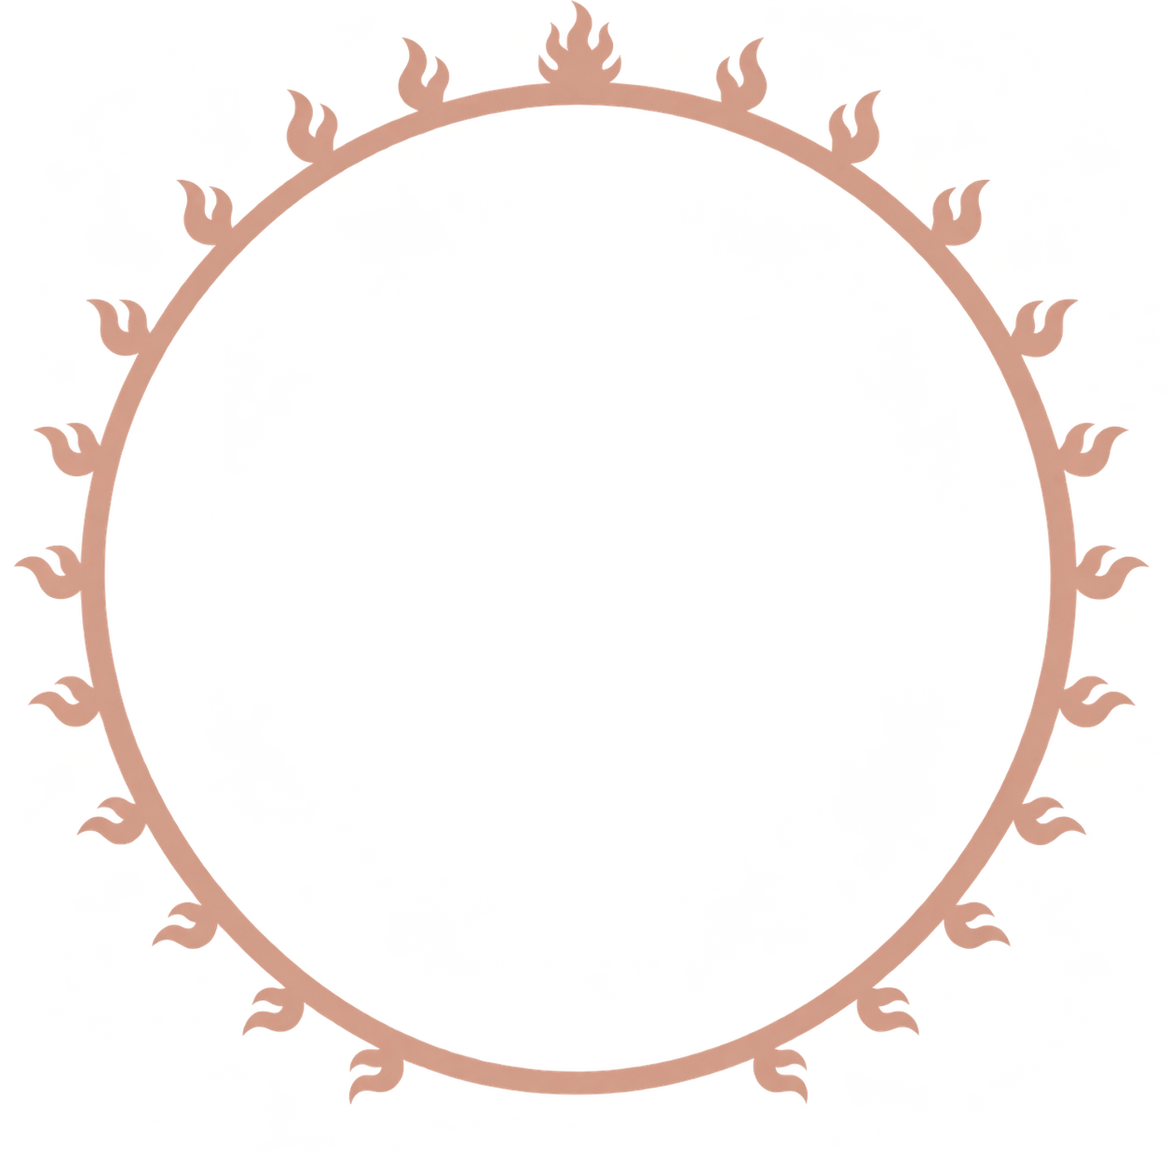
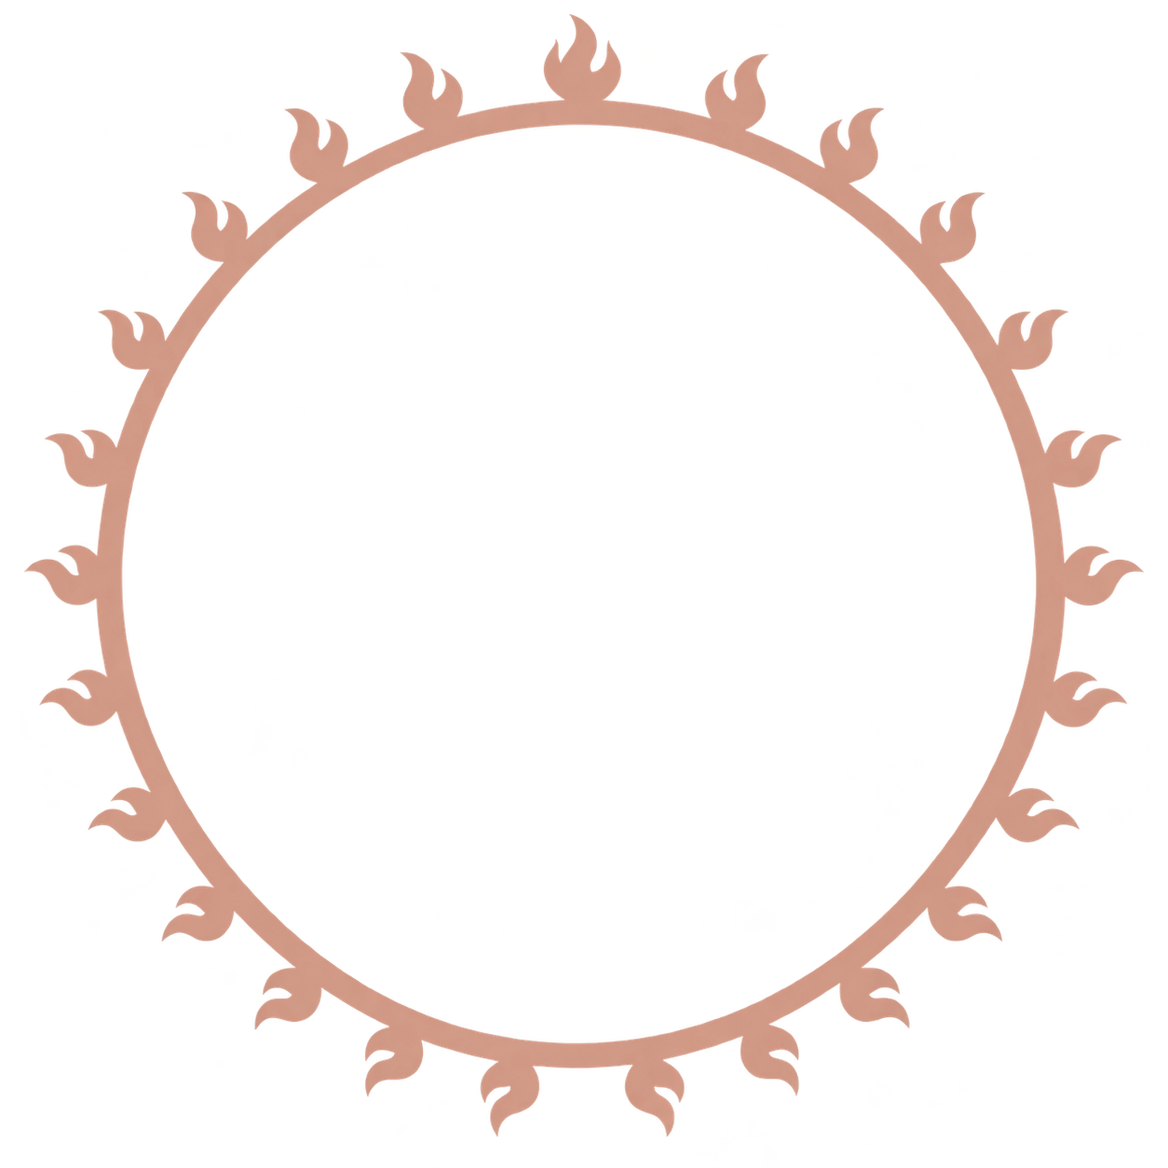
Animate Collection 02 frame selection and update the dance portfolio

Changed region(s): [[0.0, 0.0, 0.9952, 0.9641]]

diff --git a/Deliverables/exports/Jayshree-Jewa-Portfolio/refinement.css b/Deliverables/exports/Jayshree-Jewa-Portfolio/refinement.css
@@ -267,9 +267,128 @@ nav{gap:18px;font-size:10px}.nav-inquire{padding:8px 10px}.nav-inquire span{marg
 /* Flame-ring backdrop, extracted from the supplied Nataraja reference. */
 .cinematic-hero .hero-scene::before{
   width:100%;top:0;left:3%;border:0;border-radius:0;box-shadow:none;
-  background:url('assets/flame-ring.png') center / contain no-repeat;opacity:.24;
+  background:url('assets/flame-ring.png?v=complete-25') center / contain no-repeat;opacity:.24;
 }
 
 /* True transparent portrait: preserve clothing without silhouette clipping or blending. */
 .cinematic-hero .hero-art,.cinematic-hero .hero-scene{mix-blend-mode:normal;}
 .cinematic-hero .arch>img{clip-path:none;mix-blend-mode:normal;filter:none;object-fit:contain;}
+
+/* Slow ceremonial ring rotation and drifting ambient light. */
+.cinematic-hero .hero-scene::before{transform-origin:50% 50%;animation:flame-ring-orbit 100s linear infinite;}
+.cinematic-hero::after{content:'';position:absolute;inset:-15%;z-index:-1;pointer-events:none;background:radial-gradient(ellipse at 25% 35%,rgb(119 38 57 / 24%),transparent 42%),radial-gradient(ellipse at 75% 65%,rgb(224 180 164 / 9%),transparent 38%);animation:hero-light-drift 18s ease-in-out infinite alternate;}
+@keyframes flame-ring-orbit{from{transform:rotate(0deg)}to{transform:rotate(360deg)}}
+@keyframes hero-light-drift{from{transform:translate(-3%,-2%) scale(1);opacity:.55}to{transform:translate(4%,3%) scale(1.08);opacity:1}}
+.motion-paused .cinematic-hero::after,.motion-paused .cinematic-hero .hero-scene::before{animation-play-state:paused;}
+@media(prefers-reduced-motion:reduce){.cinematic-hero::after,.cinematic-hero .hero-scene::before{animation:none;}}
+
+/* Align the dancer's upper body with the centre of the flame halo. */
+.cinematic-hero .hero-art{margin-left:0;}
+
+.curved-collection .set-collage>.gallery-card .photo-wrap img[src^="assets/peacock-reverie.png"]{object-fit:contain;object-position:center;transform:none;scale:1;}
+
+/* A soft entrance for clicked photographs; no image scaling or cropping. */
+.lightbox.collection-viewer[open]{animation:photo-viewer-enter .42s cubic-bezier(.22,1,.36,1) both;}
+.lightbox.collection-viewer[open]::backdrop{animation:photo-backdrop-enter .35s ease both;}
+@keyframes photo-viewer-enter{from{opacity:0;transform:translateY(18px)}to{opacity:1;transform:translateY(0)}}
+@keyframes photo-backdrop-enter{from{opacity:0}to{opacity:1}}
+.motion-paused .lightbox.collection-viewer[open],.motion-paused .lightbox.collection-viewer[open]::backdrop{animation:none;}
+@media(prefers-reduced-motion:reduce){.lightbox.collection-viewer[open],.lightbox.collection-viewer[open]::backdrop{animation:none;}}
+
+/* A gentle spring entrance for the photo window. */
+.lightbox.collection-viewer[open]{animation:photo-popup .55s cubic-bezier(.22,1,.36,1) both;transform-origin:center;box-shadow:0 24px 90px #0009,0 0 32px rgb(224 180 164 / 12%);}
+@keyframes photo-popup{0%{opacity:0;transform:translateY(32px) scale(.96)}70%{opacity:1;transform:translateY(-5px) scale(1)}100%{opacity:1;transform:translateY(0) scale(1)}}
+.motion-paused .lightbox.collection-viewer[open]{animation:none;}
+@media(prefers-reduced-motion:reduce){.lightbox.collection-viewer[open]{animation:none;}}
+
+/* Shared ambient background across the gallery, art and contact sections. */
+body{isolation:isolate;}
+.site-atmosphere{position:fixed;inset:0;z-index:-1;overflow:hidden;pointer-events:none;background:var(--background);}
+.site-atmosphere::before{content:'';position:absolute;inset:-25%;background:radial-gradient(ellipse at 25% 35%,rgb(111 27 48 / 33%),transparent 46%),radial-gradient(ellipse at 75% 70%,rgb(224 180 164 / 9%),transparent 38%);animation:site-glow-drift 26s ease-in-out infinite alternate;}
+.site-atmosphere i{position:absolute;left:var(--x);top:var(--y);width:var(--size);height:var(--size);border-radius:50%;background:#e0b4a4;opacity:.22;box-shadow:0 0 7px #e0b4a433;animation:site-particle-drift var(--duration) ease-in-out var(--delay) infinite alternate;}
+.collection,.dance-aspects,.philosophy.shiva-reflection,footer{background:transparent;}
+@keyframes site-glow-drift{from{transform:translate(-4%,-3%) scale(1);opacity:.65}to{transform:translate(5%,4%) scale(1.12);opacity:1}}
+@keyframes site-particle-drift{0%{transform:translate3d(0,24px,0);opacity:.12}50%{opacity:.38}100%{transform:translate3d(22px,-65px,0);opacity:.18}}
+.motion-paused .site-atmosphere::before,.motion-paused .site-atmosphere i{animation-play-state:paused;}
+@media(max-width:600px){.site-atmosphere i:nth-child(n+15){display:none;}}
+@media(prefers-reduced-motion:reduce){.site-atmosphere::before,.site-atmosphere i{animation:none;}.site-atmosphere i{opacity:.16;}}
+
+/* Quiet, continuous atmosphere across the site. */
+.ambient-section{position:relative;isolation:isolate;}
+.site-atmosphere{position:absolute;inset:0;z-index:-1;overflow:hidden;pointer-events:none;border-radius:inherit;contain:paint;}
+.site-atmosphere::before{content:'';position:absolute;inset:-15%;background:radial-gradient(ellipse at 12% 28%,rgb(143 55 73 / 16%),transparent 48%),radial-gradient(ellipse at 86% 75%,rgb(224 180 164 / 10%),transparent 44%);animation:site-light-flow 24s ease-in-out infinite alternate;}
+.site-atmosphere::after{content:'';position:absolute;inset:-90px -30px;background-image:radial-gradient(circle at 30px 40px,#e0b4a45c 1px,transparent 2px),radial-gradient(circle at 160px 120px,#e0b4a438 1px,transparent 2px),radial-gradient(circle at 80px 190px,#e0b4a42b 1px,transparent 2px);background-size:330px 290px,470px 390px,610px 430px;animation:site-dust-drift 32s ease-in-out infinite alternate;opacity:.5;}
+.dance-aspects .site-atmosphere::before,.philosophy .site-atmosphere::before{animation-delay:-12s;}
+.collection .site-atmosphere::after,footer .site-atmosphere::after{animation-delay:-16s;}
+@keyframes site-light-flow{from{transform:translate(-3%,-2%) scale(1);opacity:.55}to{transform:translate(4%,3%) scale(1.08);opacity:1}}
+@keyframes site-dust-drift{from{transform:translate(0,35px);opacity:.3}to{transform:translate(20px,-35px);opacity:.65}}
+.motion-paused .site-atmosphere::before,.motion-paused .site-atmosphere::after{animation-play-state:paused;}
+@media(prefers-reduced-motion:reduce){.site-atmosphere::before,.site-atmosphere::after{animation:none;}}
+@media(max-width:600px){.site-atmosphere::after{opacity:.35;background-size:400px 350px,550px 430px,700px 500px;}}
+
+/* Lift the entire frame, including its caption, independently of carousel rotation. */
+.curved-collection .set-collage{height:540px;}
+.curved-collection .set-collage>.gallery-card:nth-child(n){top:75px;overflow:visible;translate:0 0;scale:1;transition:transform 1s cubic-bezier(.22,1,.36,1),opacity .7s,translate .45s cubic-bezier(.2,.8,.25,1.15),scale .45s cubic-bezier(.2,.8,.25,1.15);}
+.curved-collection .set-collage>.gallery-card .photo-wrap{transform:none;transition:box-shadow .35s,border-color .35s;border:1px solid var(--border);}
+@media(hover:hover) and (pointer:fine){
+.curved-collection .set-collage>.gallery-card:hover{translate:0 -26px;scale:1.09;z-index:20!important;}
+.curved-collection .set-collage>.gallery-card:hover .photo-wrap{transform:none;border-color:var(--accent);box-shadow:0 26px 40px #000a,0 0 0 2px rgb(224 180 164 / 40%),0 0 30px rgb(224 180 164 / 28%);}
+}
+.curved-collection .set-collage>.gallery-card:focus-visible{translate:0 -26px;scale:1.09;z-index:20!important;outline:none;}
+.curved-collection .set-collage>.gallery-card:focus-visible .photo-wrap{border-color:var(--accent);box-shadow:0 26px 40px #000a,0 0 0 3px var(--accent);}
+.curved-collection .set-collage>.gallery-card:active{translate:0 -10px;scale:1.03;}
+@media(max-width:700px){.curved-collection .set-collage{height:450px;}.curved-collection .set-collage>.gallery-card:nth-child(n){top:65px;}}
+.lightbox.collection-viewer[open]{animation:photo-popup .65s cubic-bezier(.22,1,.36,1) both;}
+@keyframes photo-popup{0%{opacity:0;transform:translateY(55px) scale(.84)}65%{opacity:1;transform:translateY(-8px) scale(1.015)}100%{opacity:1;transform:translateY(0) scale(1)}}
+.motion-paused .curved-collection .set-collage>.gallery-card:nth-child(n){translate:none;scale:1;transition:none;}
+.motion-paused .lightbox.collection-viewer[open]{animation:none;}
+@media(prefers-reduced-motion:reduce){.curved-collection .set-collage>.gallery-card:nth-child(n){translate:none;scale:1;transition:none;}.lightbox.collection-viewer[open]{animation:none;}}
+
+/* Continuous movement in each section, with readable stationary text after arrival. */
+.motion-zone>.site-atmosphere{background:transparent;}
+.section-light-ribbon{position:absolute;left:-35%;top:15%;width:110%;height:65%;border-radius:50%;border:1px solid rgb(224 180 164 / 16%);background:radial-gradient(ellipse,transparent 45%,rgb(174 62 86 / 12%) 65%,transparent 72%);animation:section-ribbon-flow 14s ease-in-out var(--flow-delay,0s) infinite alternate;}
+.motion-zone>.site-atmosphere::before{animation-duration:14s;}
+.motion-zone>.site-atmosphere::after{animation-duration:18s;}
+@keyframes section-ribbon-flow{from{transform:translate(-8%,-7%) rotate(-18deg);opacity:.35}to{transform:translate(36%,20%) rotate(20deg);opacity:.9}}
+.section-entrance{opacity:.2;transform:translateY(26px);transition:opacity .9s ease,transform .9s cubic-bezier(.22,1,.36,1);}
+.section-entrance.section-arrived{opacity:1;transform:none;}
+.dance-aspects .hero-frame.section-float,.set-black .set-collage>.gallery-card.section-float:nth-child(n),.shiva-artwork.section-float{animation:section-photo-float 6s ease-in-out var(--float-delay,0s) infinite;}
+@keyframes section-photo-float{0%,100%{translate:0 6px}50%{translate:0 -8px}}
+.dance-aspects .hero-frame.section-float:is(:hover,:focus-visible),.set-black .gallery-card.section-float:hover{animation-play-state:paused;}
+.section-float:not(.motion-in-view),.motion-zone:not(.motion-in-view)>.site-atmosphere *,.motion-zone:not(.motion-in-view)>.site-atmosphere::before,.motion-zone:not(.motion-in-view)>.site-atmosphere::after{animation-play-state:paused!important;}
+.motion-paused .section-entrance{opacity:1;transform:none;transition:none;}
+@media(prefers-reduced-motion:reduce){.section-entrance{opacity:1;transform:none;transition:none;}.section-float{translate:none!important;}.section-light-ribbon{animation:none;opacity:.25;}}
+
+/* Collection 02: every complete picture frame springs forward on interaction. */
+@keyframes collection-frame-pop {
+  0% { translate:0 0; scale:1; }
+  65% { translate:0 -30px; scale:1.085; }
+  100% { translate:0 -22px; scale:1.06; }
+}
+@media (prefers-reduced-motion:no-preference) {
+  body:not(.motion-paused) .curved-collection .set-collage>.gallery-card:nth-child(n):focus-visible {
+    animation:collection-frame-pop .55s cubic-bezier(.22,1,.36,1) both;
+  }
+}
+@media (hover:hover) and (pointer:fine) and (prefers-reduced-motion:no-preference) {
+  body:not(.motion-paused) .curved-collection .set-collage>.gallery-card:nth-child(n):hover {
+    animation:collection-frame-pop .55s cubic-bezier(.22,1,.36,1) both;
+  }
+}
+.curved-collection .set-collage>.gallery-card:nth-child(n).offstage { opacity:0; pointer-events:none; }
+
+/* A rose-gold frame flourish accompanies each slide into the centre. */
+.curved-collection .set-collage>.gallery-card.centre-card .photo-wrap {
+  border-color:var(--accent);
+  box-shadow:0 16px 38px #0008,0 0 0 1px rgb(224 180 164 / 25%),0 0 24px rgb(224 180 164 / 16%);
+}
+@keyframes selected-frame-arrival {
+  0% { translate:0 0; box-shadow:0 4px 12px #0004; }
+  55% { translate:0 -12px; box-shadow:0 24px 42px #0009,0 0 0 2px rgb(224 180 164 / 60%),0 0 36px rgb(224 180 164 / 32%); }
+  100% { translate:0 0; box-shadow:0 16px 38px #0008,0 0 0 1px rgb(224 180 164 / 25%),0 0 24px rgb(224 180 164 / 16%); }
+}
+@media(prefers-reduced-motion:no-preference) {
+  body:not(.motion-paused) .curved-collection .set-collage>.gallery-card.centre-card .photo-wrap {
+    animation:selected-frame-arrival 1.1s cubic-bezier(.22,1,.36,1) both;
+  }
+}

diff --git a/Deliverables/exports/Jayshree-Jewa-Portfolio/gallery.js b/Deliverables/exports/Jayshree-Jewa-Portfolio/gallery.js
@@ -4,6 +4,16 @@ const CONTACT = { email: '', instagram: '', youtube: '' };
 // Curatorial labels and sample repertoire are illustrative, not claims about the pictured performances.
 const photos = [
   {
+  "id": "assets/peacock-reverie.png",
+  "title": "A feathered reverie",
+  "category": "Portraits",
+  "detail": "Bharatanatyam",
+  "caption": "A seated dance pose framed by peacock feathers and warm golden light.",
+  "credit": "Provided for this portfolio",
+  "ratio": "1 / 1",
+  "alt": "Dancer in teal, blue and gold seated before a peacock-feather fan in warm golden light."
+},
+  {
     "id": "assets/blue-portrait.jpg",
     "title": "A quiet glance",
     "category": "Abhinaya",
@@ -27,11 +37,11 @@ const photos = [
     "id": "assets/stage-peacock.jpeg",
     "title": "In the spotlight",
     "category": "On Stage",
-    "detail": "Bharatanatyam · Selected collection",
-    "caption": "A stage moment with a peacock-feather headdress.",
+    "detail": "Bharatanatyam",
+    "caption": "A stage moment as the charming Krishna.",
     "credit": "Provided for this portfolio",
     "ratio": "854 / 1280",
-    "alt": "A stage moment with a peacock-feather headdress."
+    "alt": "A stage moment as the charming Krishna."
   },
   {
     "id": "assets/warm-portrait.png",
@@ -57,17 +67,17 @@ const photos = [
     "id": "assets/stage-shadow.png",
     "title": "Rhythm and shadow",
     "category": "On Stage",
-    "detail": "Bharatanatyam · Selected collection",
-    "caption": "A seated Bharatanatyam pose in red and gold beneath the shadow of Nataraja.",
+    "detail": "",
+    "caption": "Seated in a Devi pose beneath the shadow of Durga.",
     "credit": "Provided for this portfolio",
     "ratio": "1086 / 1448",
-    "alt": "A seated Bharatanatyam pose in red and gold beneath the shadow of Nataraja."
+    "alt": "Seated in a Devi pose beneath the shadow of Durga."
   },
   {
     "id": "assets/temple.png",
     "title": "Temple reverie",
     "category": "Portraits",
-    "detail": "Bharatanatyam · Selected collection",
+    "detail": "Bharatanatyam",
     "caption": "A seated portrait framed by Nataraja and warm lamplight.",
     "credit": "Provided for this portfolio",
     "ratio": "1086 / 1448",
@@ -77,27 +87,17 @@ const photos = [
     "id": "assets/golden-lines.jpg",
     "title": "Lines of grace",
     "category": "Mudras & Details",
-    "detail": "Bharatanatyam · Selected collection",
+    "detail": "Bharatanatyam",
     "caption": "A full-length gesture in red, green, and gold.",
     "credit": "Provided for this portfolio",
     "ratio": "1305 / 1920",
     "alt": "A full-length gesture in red, green, and gold."
   },
   {
-    "id": "assets/peacock-fan.jpeg",
-    "title": "A fan of colour",
-    "category": "On Stage",
-    "detail": "Bharatanatyam · Selected collection",
-    "caption": "A seated dance pose against a fan of peacock feathers.",
-    "credit": "Provided for this portfolio",
-    "ratio": "960 / 1280",
-    "alt": "A seated dance pose against a fan of peacock feathers."
-  },
-  {
     "id": "assets/golden-expression.png",
     "title": "A world within",
     "category": "Abhinaya",
-    "detail": "Bharatanatyam · Selected collection",
+    "detail": "Bharatanatyam",
     "caption": "A playful expression surrounded by golden light.",
     "credit": "Provided for this portfolio",
     "ratio": "1054 / 1493",
@@ -165,9 +165,11 @@ function renderGallery(){
     {id:'colour',label:'An Ode to Tradition',title:'A world of colour.',note:'Movement, framed in light.',number:'02'}
   ];
   const blackDisplayOrder = ["assets/offering.png","assets/blue-portrait.jpg","assets/crimson-portrait.png","assets/gesture.png","assets/pointing-gesture.png","assets/warm-portrait.png"];
+  const colourDisplayOrder = ['assets/peacock-reverie.png','assets/stage-shadow.png','assets/stage-peacock.jpeg','assets/golden-lines.jpg','assets/temple.png','assets/golden-expression.png'];
   visible = ['black','colour'].flatMap(set => {
     const items = visible.filter(photo => photoSet(photo) === set);
-    return set === 'black' ? items.sort((a,b) => blackDisplayOrder.indexOf(a.id) - blackDisplayOrder.indexOf(b.id)) : items;
+    const order = set === 'black' ? blackDisplayOrder : colourDisplayOrder;
+    return items.sort((a,b) => order.indexOf(a.id) - order.indexOf(b.id));
   });
   sets.forEach(set => {
     const count = visible.filter(photo => photoSet(photo) === set.id).length;
@@ -203,6 +205,7 @@ function renderGallery(){
     });
     card.addEventListener('pointerleave',()=>{wrap.style.setProperty('--rx','0deg');wrap.style.setProperty('--ry','0deg');});
     if (photoSet(photo) !== 'black') {
+      card.querySelector('.card-category')?.remove();
       const description = document.createElement('span');
       description.className = 'editorial-description';
       description.textContent = photo.caption;
@@ -248,6 +251,14 @@ function arrangeColourCarousel() {
     });
     controls.querySelector('.curve-count').textContent=String(active+1).padStart(2,'0')+' / '+String(cards.length).padStart(2,'0');
   }
+  // Select a side frame first; the centred frame opens the fitted viewer.
+  cards.forEach((card,index)=>card.addEventListener('click',event=>{
+    if(index===active)return;
+    event.preventDefault();
+    event.stopImmediatePropagation();
+    select(index);
+    card.focus({preventScroll:true});
+  },true));
   controls.querySelector('.curve-prev').addEventListener('click',()=>select(active-1));
   controls.querySelector('.curve-next').addEventListener('click',()=>select(active+1));
   const pause=controls.querySelector('.curve-pause');
@@ -272,7 +283,7 @@ function showImage(){
   fullImage.src=imageURL(photo.id,2400);fullImage.alt=photo.alt || `${photo.title} — stock photograph by ${photo.credit}`;
   document.querySelector('#lightbox-title').textContent=photo.title;
   document.querySelector('#lightbox-category').textContent=photo.category;
-  document.querySelector('#lightbox-detail').textContent=`${photo.detail} · ${photo.caption}`;
+  document.querySelector('#lightbox-detail').textContent=[photo.detail, photo.caption].filter(Boolean).join(' · ');
   document.querySelector('.image-counter').textContent=`${String(current+1).padStart(2,'0')} / ${String(visible.length).padStart(2,'0')}`;
   const source=document.querySelector('#photo-source');source.href=sourceURL(photo.id);source.textContent=typeof photo.id === 'string' ? 'View original image ↗' : `Stock placeholder · ${photo.credit} / Pexels ↗`;
 }

diff --git a/Deliverables/exports/Jayshree-Jewa-Portfolio/index.html b/Deliverables/exports/Jayshree-Jewa-Portfolio/index.html
@@ -10,11 +10,12 @@
   <link rel="preconnect" href="https://fonts.gstatic.com" crossorigin>
   <link href="https://fonts.googleapis.com/css2?family=Cormorant+Garamond:ital,wght@0,400;0,500;0,600;1,400;1,500&family=Montserrat:wght@400;500;600&display=swap" rel="stylesheet">
   <link rel="stylesheet" href="styles.css?v=tala-blend-2">
-  <script src="gallery.js?v=stillness-five-18" defer></script>
-  <script src="motion.js?v=stillness-hover-2" defer></script>
-  <link rel="stylesheet" href="refinement.css?v=clean-dancer-21">
+  <script src="gallery.js?v=sliding-frame-42" defer></script>
+  <script src="motion.js?v=section-motion-40" defer></script>
+  <link rel="stylesheet" href="refinement.css?v=sliding-frame-42">
 </head>
 <body>
+  <div class="site-atmosphere" aria-hidden="true"><i style="--x:9%;--y:7%;--duration:22s;--delay:-0s;--size:3px"></i><i style="--x:46%;--y:30%;--duration:26s;--delay:-3s;--size:2px"></i><i style="--x:83%;--y:53%;--duration:30s;--delay:-6s;--size:2px"></i><i style="--x:20%;--y:76%;--duration:34s;--delay:-9s;--size:3px"></i><i style="--x:57%;--y:99%;--duration:38s;--delay:-12s;--size:2px"></i><i style="--x:94%;--y:22%;--duration:42s;--delay:-15s;--size:2px"></i><i style="--x:31%;--y:45%;--duration:46s;--delay:-18s;--size:3px"></i><i style="--x:68%;--y:68%;--duration:22s;--delay:-21s;--size:2px"></i><i style="--x:5%;--y:91%;--duration:26s;--delay:-24s;--size:2px"></i><i style="--x:42%;--y:14%;--duration:30s;--delay:-27s;--size:3px"></i><i style="--x:79%;--y:37%;--duration:34s;--delay:-30s;--size:2px"></i><i style="--x:16%;--y:60%;--duration:38s;--delay:-33s;--size:2px"></i><i style="--x:53%;--y:83%;--duration:42s;--delay:-36s;--size:3px"></i><i style="--x:90%;--y:6%;--duration:46s;--delay:-39s;--size:2px"></i><i style="--x:27%;--y:29%;--duration:22s;--delay:-42s;--size:2px"></i><i style="--x:64%;--y:52%;--duration:26s;--delay:-45s;--size:3px"></i><i style="--x:1%;--y:75%;--duration:30s;--delay:-48s;--size:2px"></i><i style="--x:38%;--y:98%;--duration:34s;--delay:-51s;--size:2px"></i><i style="--x:75%;--y:21%;--duration:38s;--delay:-54s;--size:3px"></i><i style="--x:12%;--y:44%;--duration:42s;--delay:-57s;--size:2px"></i><i style="--x:49%;--y:67%;--duration:46s;--delay:-60s;--size:2px"></i><i style="--x:86%;--y:90%;--duration:22s;--delay:-63s;--size:3px"></i><i style="--x:23%;--y:13%;--duration:26s;--delay:-66s;--size:2px"></i><i style="--x:60%;--y:36%;--duration:30s;--delay:-69s;--size:2px"></i></div>
 <svg width="0" height="0" aria-hidden="true" style="position:absolute"><defs><clipPath id="dancer-silhouette" clipPathUnits="objectBoundingBox"><path transform="scale(0.0007788162 0.0008163265)" d="M650 31 Q693 9 741 26 L780 35 791 61 802 94 809 126 821 158 842 185 853 210 843 238 817 261 809 296 814 331 Q859 348 909 378 L948 406 963 452 982 503 Q1062 555 1083 625 Q1100 672 1065 690 Q1036 690 1003 677 L899 626 882 666 863 715 884 764 879 811 Q1010 817 1169 843 Q1227 850 1231 887 L1242 937 1262 979 1283 1018 1283 1091 1252 1119 1207 1147 1159 1171 1100 1184 1050 1202 998 1211 955 1223 895 1223 841 1219 784 1219 728 1216 667 1203 615 1200 560 1186 507 1173 469 1158 426 1138 384 1111 350 1088 330 1059 312 1034 299 1006 282 980 Q310 934 343 900 L386 869 404 814 423 768 432 706 457 649 479 603 454 558 Q389 586 352 540 Q324 515 314 465 L294 371 290 339 Q271 323 277 302 L300 268 323 244 343 218 Q350 204 360 216 Q371 210 379 220 Q388 219 394 228 L395 241 379 275 365 306 365 325 381 354 405 391 440 417 479 389 Q515 361 553 349 L613 334 627 303 620 275 610 248 602 219 606 191 612 162 617 137 622 104 639 74Z"/></clipPath></defs></svg>
   <a class="skip" href="#gallery">Skip to gallery</a>
   <header class="site-header">

diff --git a/Deliverables/exports/Jayshree-Jewa-Portfolio/motion.js b/Deliverables/exports/Jayshree-Jewa-Portfolio/motion.js
@@ -96,3 +96,56 @@ filters.addEventListener('click', () => requestAnimationFrame(updateFilterPill))
 new ResizeObserver(updateFilterPill).observe(filters);
 document.fonts.ready.then(updateFilterPill);
 updateFilterPill();
+
+// Ambient layers stay behind the content of every main site section.
+document.querySelectorAll('.cinematic-hero,.dance-aspects,.collection,.philosophy,footer').forEach(section=>{
+  section.classList.add('ambient-section');
+  const atmosphere=document.createElement('div');
+  atmosphere.className='site-atmosphere';
+  atmosphere.setAttribute('aria-hidden','true');
+  section.prepend(atmosphere);
+});
+
+// Section choreography: decoration never intercepts clicks or changes image crops.
+const sectionMotionObserver = new IntersectionObserver(entries => {
+  entries.forEach(({target,isIntersecting}) => target.classList.toggle('motion-in-view',isIntersecting));
+}, {rootMargin:'60px'});
+const entranceObserver = new IntersectionObserver(entries => {
+  entries.forEach(({target,isIntersecting}) => {
+    if (!isIntersecting) return;
+    target.classList.add('section-arrived');
+    entranceObserver.unobserve(target);
+  });
+}, {threshold:.12});
+function prepareSectionMotion() {
+  document.querySelectorAll('.ambient-section,.photo-set').forEach((section,index) => {
+    if(section.dataset.motionReady) return;
+    section.dataset.motionReady='true';
+    section.classList.add('motion-zone');
+    sectionMotionObserver.observe(section);
+    let atmosphere=section.querySelector(':scope > .site-atmosphere');
+    if(!atmosphere){
+      section.classList.add('ambient-section');
+      atmosphere=document.createElement('div');atmosphere.className='site-atmosphere';
+      atmosphere.setAttribute('aria-hidden','true');section.prepend(atmosphere);
+    }
+    const ribbon=document.createElement('b');ribbon.className='section-light-ribbon';
+    ribbon.style.setProperty('--flow-delay',(-index*3)+'s');atmosphere.append(ribbon);
+    for(let i=0;i<7;i++){
+      const dot=document.createElement('i');
+      dot.style.cssText='--x:'+((i*17+index*9)%96)+'%;--y:'+((i*29+18)%94)+'%;--size:3px;--duration:'+(10+i*2)+'s;--delay:'+(-i*2)+'s';
+      atmosphere.append(dot);
+    }
+  });
+  document.querySelectorAll('.hero-copy,.hero-actions,.section-heading,.set-heading,.dance-verse,.shiva-copy,.footer-connect,.footer-artwork').forEach(el=>{
+    if(el.classList.contains('section-entrance'))return;
+    el.classList.add('section-entrance');entranceObserver.observe(el);
+  });
+  document.querySelectorAll('.dance-aspects .hero-frame,.set-black .gallery-card,.shiva-artwork').forEach((el,index)=>{
+    if(el.classList.contains('section-float'))return;
+    el.classList.add('section-float');el.style.setProperty('--float-delay',(-index*1.3)+'s');
+    sectionMotionObserver.observe(el);
+  });
+}
+prepareSectionMotion();
+new MutationObserver(prepareSectionMotion).observe(grid,{childList:true});
